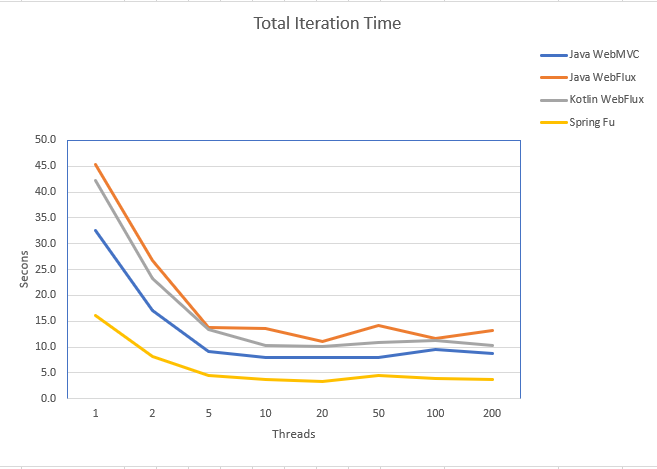
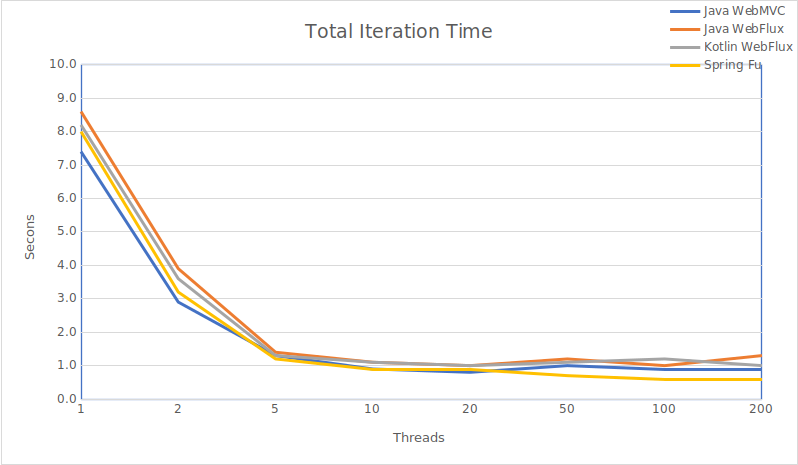
Added data for tests on Ubuntu

diff --git a/README.md b/README.md
@@ -14,7 +14,10 @@ The presentation is aimed as gentle introduction to Reactive Spring 5 while illu
 
 ## Mongo Setup
 
+
 ```
+mongo
+>
 use admin
 db.createUser(
     {
@@ -32,6 +35,7 @@ db.createUser(
         roles: [{role: "readWrite", db: "locs"}]
     }
 )
+quit()
 ```
 
 ## Running
@@ -97,9 +101,7 @@ The load generator is invoked with a number of iterations and will then divide t
  
 The performance testing isn't exhaustive since is was done in a single machine.
 
-### Total time to perform iterations.
-
-![Total Times](img/chart-totals.png)
+### Total time to perform iterations on Windows
 
 | Type         | Measure |        1 |        2 |        5 |       10 |       20 |       50 |      100 |      200 |
 |--------------|---------|---------:|---------:|---------:|---------:|---------:|---------:|---------:|---------:|
@@ -108,9 +110,7 @@ The performance testing isn't exhaustive since is was done in a single machine.
 |    WebFluxKt | Totals  |     42.2 |     23.3 |     13.5 |     10.4 |     10.1 |     10.8 |     11.2 |     10.4 |
 |     SpringFu | Totals  |     16.2 |      8.2 |      4.6 |      3.8 |      3.3 |      4.6 |      4.0 |      3.8 |
 
-### Average response time per request.
-
-![Average Times](img/chart-average.png)
+### Average response time per request on Windows
 
 | Type         | Measure |        1 |        2 |        5 |       10 |       20 |       50 |      100 |      200 |
 |--------------|---------|---------:|---------:|---------:|---------:|---------:|---------:|---------:|---------:|
@@ -118,3 +118,26 @@ The performance testing isn't exhaustive since is was done in a single machine.
 |      WebFlux | Average |     45.3 |     53.6 |     68.9 |    133.4 |    205.6 |    607.9 |    941.2 |   1570.7 |
 |    WebFluxKt | Average |     42.2 |     46.6 |     67.0 |    102.3 |    194.2 |    461.2 |    723.8 |    739.2 |
 |     SpringFu | Average |     16.2 |     16.3 |     22.8 |     36.3 |     63.0 |    190.9 |    187.1 |    517.2 |
+
+
+### Total time to perform iterations on Ubuntu
+
+![Total Times](img/chart-totals.png)
+
+| Type         | Measure |        1 |        2 |        5 |       10 |       20 |       50 |      100 |      200 |
+|--------------|---------|---------:|---------:|---------:|---------:|---------:|---------:|---------:|---------:|
+|       WebMVC | Totals  |      7.4 |      2.9 |      1.3 |      0.9 |      0.8 |      1.0 |      0.9 |      0.9 |
+|      WebFlux | Totals  |      8.6 |      3.9 |      1.4 |      1.1 |      1.0 |      1.2 |      1.0 |      1.3 |
+|    WebFluxKt | Totals  |      8.2 |      3.6 |      1.3 |      1.1 |      1.0 |      1.1 |      1.2 |      1.0 |
+|     SpringFu | Totals  |      8.0 |      3.2 |      1.2 |      0.9 |      0.9 |      0.7 |      0.6 |      0.6 |
+
+### Average response time per request on Windows
+
+![Average Times](img/chart-average.png)
+
+| Type         | Measure |        1 |        2 |        5 |       10 |       20 |       50 |      100 |      200 |
+|--------------|---------|---------:|---------:|---------:|---------:|---------:|---------:|---------:|---------:|
+|       WebMVC | Average |      1.5 |      1.2 |      1.2 |      1.7 |      3.2 |      8.7 |     13.2 |     23.1 |
+|      WebFlux | Average |      1.7 |      1.5 |      1.3 |      2.2 |      3.9 |     10.7 |     15.7 |     29.0 |
+|    WebFluxKt | Average |      1.6 |      1.4 |      1.3 |      2.1 |      3.9 |     10.5 |     19.9 |     20.5 |
+|     SpringFu | Average |      1.6 |      1.3 |      1.1 |      1.7 |      3.3 |      4.9 |      5.7 |     11.1 |
